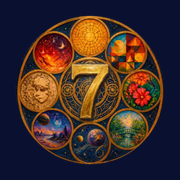
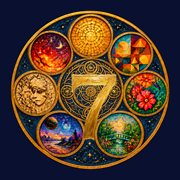
Ícones do app com a mandala oficial de 7 círculos
Claude-Session: https://claude.ai/code/session_01J94mQjRB7qZ7YKzJzr6bYB

diff --git a/app/sw.js b/app/sw.js
@@ -3,7 +3,7 @@
      sem internet, mostra a página "Sem internet" (o app usa arquivos de fora,
      como o React, que não funcionam sem conexão).
    - Ícones e a página "Sem internet": ficam guardados no aparelho. */
-const VERSAO = '7entidos-app-v1';
+const VERSAO = '7entidos-app-v2';
 const GUARDAR = [
   '/app/offline.html',
   '/app/manifest.webmanifest',
